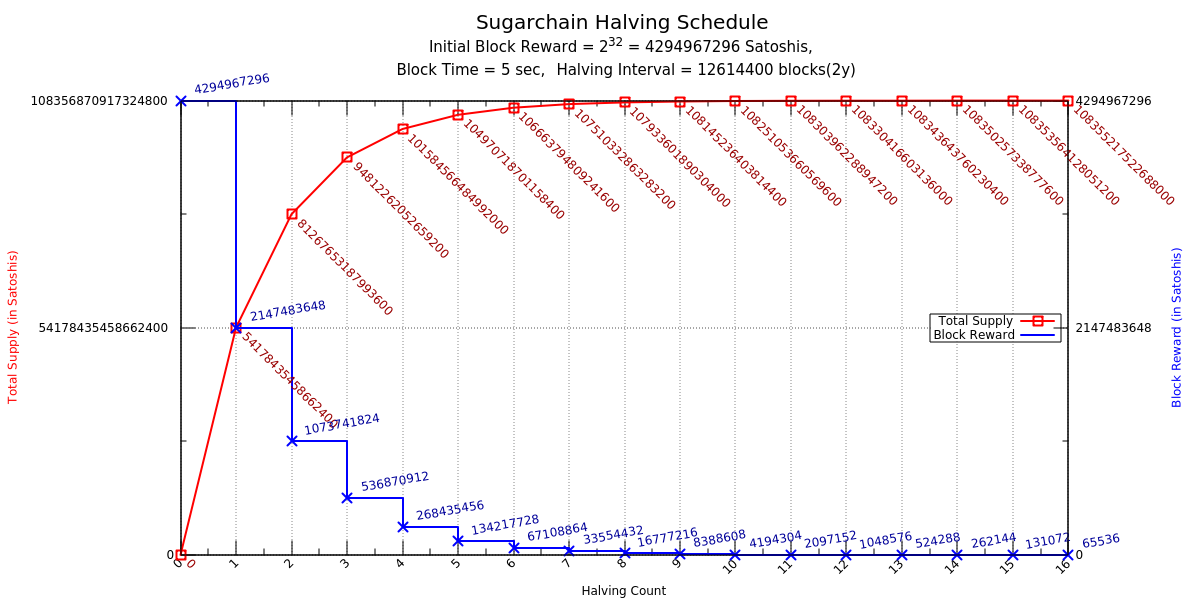
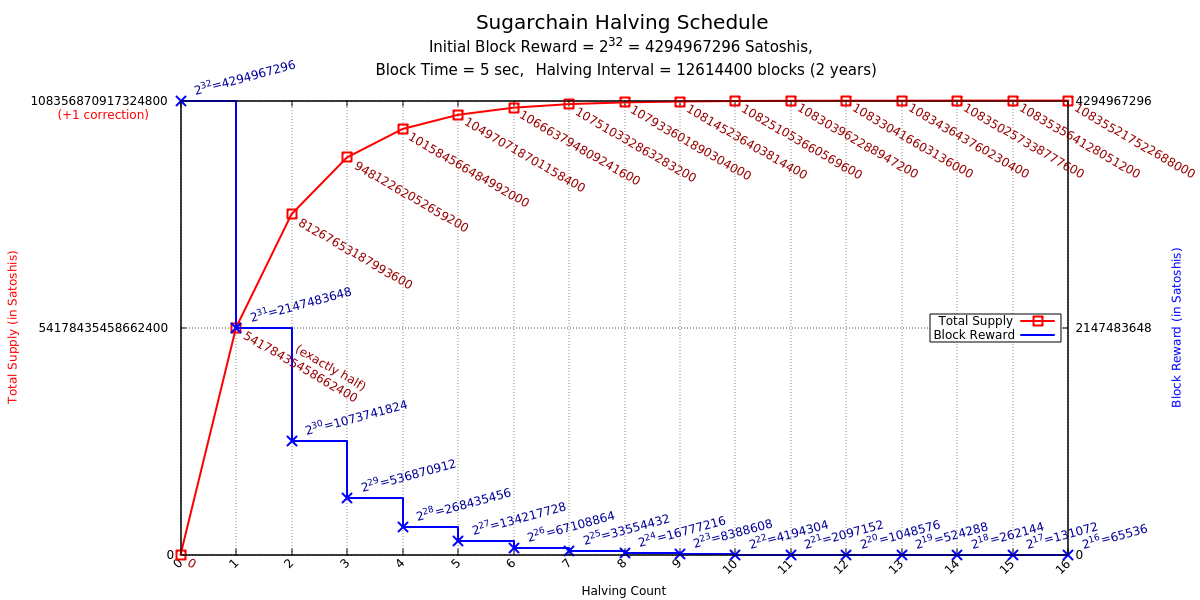
add: power of 2

diff --git a/max_money/max_money.py b/max_money/max_money.py
@@ -47,9 +47,10 @@ reward_interval = np.int64(210240 / 2 * 120) # 210240/2*120 = 12614400 is exactl
 blocktime = np.int64(5) # 5 seconds for sugarchain
 
 # print header
-print "Count\tSupply\t\t\tReward"
+print "Count\tSupply\t\t\tPow\tReward"
 print "%d\t" % halving_count,
 print "%d\t\t\t" % total, # current supply is 0
+print "2^{%.64g}\t" % np.log2(current_reward),
 print "%d" % current_reward
 
 # main loop
@@ -70,8 +71,9 @@ while current_reward > 0 and halving_count < 64: # TEST SUGAR "2^6=64"
     else:
         current_reward /= 2
 
-    # print - current reward
-    print "%.32g" % current_reward
+    # print - "2^n" and "current reward"
+    print "2^{%.64g}\t" % np.log2(current_reward),
+    print "%.64g\t" % current_reward
 
     # store first halving for later
     if halving_count == 1:
@@ -150,101 +152,3 @@ if total/2 != first_halving:
 else:
     print "  [ OK ]: first halving is half of the total supply"
 print ""
-
-# output example
-"""
-yumekawa-utils$ cd max_money && ./max_money.py && cat ./max_money.csv && gnuplot ./max_money.plot; cd ..
-
-  Block Time:		5 Seconds
-  Initial Block Reward:	4294967296 Satoshis
-  Initial Block Reward:	42.94967296 COINs
-  Halving Interval:	12614400 Blocks
-  * in Years:		  2 Years
-  * in Days:		  730 Days
-  * in Hours:		  17520 Hours
-  * in Minutes:		  1051200 Minutes
-  * in Seconds:		  63072000 Seconds
-  Total Halving Count:	64 Times
-  * in Years:		  128 Years
-  * in Days:		  46720 Days
-  * in Hours:		  1121280 Hours
-  * in Minutes:		  67276800 Minutes
-  * in Seconds:		  4036608000 Seconds
-  Total Satoshis:	108356870917324799 Satoshis
-  Total COINs:		1083568709.173248 COINs
-
-  [ OK ]: all range check is finished
-
-  # WARNING: the first halving is NOT half of the total supply!
-  Total Supply:		108356870917324799
-  Half of Total Supply:	54178435458662399
-  First Halving:	54178435458662400
-  Difference:		-1 Satoshis
-
-Count	Supply			Reward
-0	0			4294967296
-1	54178435458662400	2147483648
-2	81267653187993600	1073741824
-3	94812262052659200	536870912
-4	101584566484992000	268435456
-5	104970718701158400	134217728
-6	106663794809241600	67108864
-7	107510332863283200	33554432
-8	107933601890304000	16777216
-9	108145236403814400	8388608
-10	108251053660569600	4194304
-11	108303962288947200	2097152
-12	108330416603136000	1048576
-13	108343643760230400	524288
-14	108350257338777600	262144
-15	108353564128051200	131072
-16	108355217522688000	65536
-17	108356044220006400	32768
-18	108356457568665600	16384
-19	108356664242995200	8192
-20	108356767580160000	4096
-21	108356819248742400	2048
-22	108356845083033600	1024
-23	108356858000179200	512
-24	108356864458752000	256
-25	108356867688038400	128
-26	108356869302681600	64
-27	108356870110003200	32
-28	108356870513664000	16
-29	108356870715494400	8
-30	108356870816409600	4
-31	108356870866867200	2
-32	108356870892096000	1
-33	108356870904710400	0.5
-34	108356870911017600	0.25
-35	108356870914171200	0.125
-36	108356870915748000	0.0625
-37	108356870916536400	0.03125
-38	108356870916930600	0.015625
-39	108356870917127700	0.0078125
-40	108356870917226250	0.00390625
-41	108356870917275525	0.001953125
-42	108356870917300162	0.0009765625
-43	108356870917312481	0.00048828125
-44	108356870917318640	0.000244140625
-45	108356870917321720	0.0001220703125
-46	108356870917323260	6.103515625e-05
-47	108356870917324030	3.0517578125e-05
-48	108356870917324415	1.52587890625e-05
-49	108356870917324607	7.62939453125e-06
-50	108356870917324703	3.814697265625e-06
-51	108356870917324751	1.9073486328125e-06
-52	108356870917324775	9.5367431640625e-07
-53	108356870917324787	4.76837158203125e-07
-54	108356870917324793	2.384185791015625e-07
-55	108356870917324796	1.1920928955078125e-07
-56	108356870917324798	5.9604644775390625e-08
-57	108356870917324799	2.98023223876953125e-08
-58	108356870917324799	1.490116119384765625e-08
-59	108356870917324799	7.450580596923828125e-09
-60	108356870917324799	3.7252902984619140625e-09
-61	108356870917324799	1.86264514923095703125e-09
-62	108356870917324799	9.31322574615478515625e-10
-63	108356870917324799	4.656612873077392578125e-10
-64	108356870917324799	2.3283064365386962890625e-10
-"""

diff --git a/README.md b/README.md
@@ -60,72 +60,72 @@ Half of Total Supply:	54178435458662399
 First Halving:	54178435458662400
 Difference:		-1 Satoshis
 
-Count	Supply			Reward
-0	0			4294967296
-1	54178435458662400	2147483648
-2	81267653187993600	1073741824
-3	94812262052659200	536870912
-4	101584566484992000	268435456
-5	104970718701158400	134217728
-6	106663794809241600	67108864
-7	107510332863283200	33554432
-8	107933601890304000	16777216
-9	108145236403814400	8388608
-10	108251053660569600	4194304
-11	108303962288947200	2097152
-12	108330416603136000	1048576
-13	108343643760230400	524288
-14	108350257338777600	262144
-15	108353564128051200	131072
-16	108355217522688000	65536
-17	108356044220006400	32768
-18	108356457568665600	16384
-19	108356664242995200	8192
-20	108356767580160000	4096
-21	108356819248742400	2048
-22	108356845083033600	1024
-23	108356858000179200	512
-24	108356864458752000	256
-25	108356867688038400	128
-26	108356869302681600	64
-27	108356870110003200	32
-28	108356870513664000	16
-29	108356870715494400	8
-30	108356870816409600	4
-31	108356870866867200	2
-32	108356870892096000	1
-33	108356870904710400	0.5
-34	108356870911017600	0.25
-35	108356870914171200	0.125
-36	108356870915748000	0.0625
-37	108356870916536400	0.03125
-38	108356870916930600	0.015625
-39	108356870917127700	0.0078125
-40	108356870917226250	0.00390625
-41	108356870917275525	0.001953125
-42	108356870917300162	0.0009765625
-43	108356870917312481	0.00048828125
-44	108356870917318640	0.000244140625
-45	108356870917321720	0.0001220703125
-46	108356870917323260	6.103515625e-05
-47	108356870917324030	3.0517578125e-05
-48	108356870917324415	1.52587890625e-05
-49	108356870917324607	7.62939453125e-06
-50	108356870917324703	3.814697265625e-06
-51	108356870917324751	1.9073486328125e-06
-52	108356870917324775	9.5367431640625e-07
-53	108356870917324787	4.76837158203125e-07
-54	108356870917324793	2.384185791015625e-07
-55	108356870917324796	1.1920928955078125e-07
-56	108356870917324798	5.9604644775390625e-08
-57	108356870917324799	2.98023223876953125e-08
-58	108356870917324799	1.490116119384765625e-08
-59	108356870917324799	7.450580596923828125e-09
-60	108356870917324799	3.7252902984619140625e-09
-61	108356870917324799	1.86264514923095703125e-09
-62	108356870917324799	9.31322574615478515625e-10
-63	108356870917324799	4.656612873077392578125e-10
-64	108356870917324799	2.3283064365386962890625e-10
+Count	Supply			Pow	Reward
+0	0			2^{32}	4294967296
+1	54178435458662400	2^{31}	2147483648	
+2	81267653187993600	2^{30}	1073741824	
+3	94812262052659200	2^{29}	536870912	
+4	101584566484992000	2^{28}	268435456	
+5	104970718701158400	2^{27}	134217728	
+6	106663794809241600	2^{26}	67108864	
+7	107510332863283200	2^{25}	33554432	
+8	107933601890304000	2^{24}	16777216	
+9	108145236403814400	2^{23}	8388608	
+10	108251053660569600	2^{22}	4194304	
+11	108303962288947200	2^{21}	2097152	
+12	108330416603136000	2^{20}	1048576	
+13	108343643760230400	2^{19}	524288	
+14	108350257338777600	2^{18}	262144	
+15	108353564128051200	2^{17}	131072	
+16	108355217522688000	2^{16}	65536	
+17	108356044220006400	2^{15}	32768	
+18	108356457568665600	2^{14}	16384	
+19	108356664242995200	2^{13}	8192	
+20	108356767580160000	2^{12}	4096	
+21	108356819248742400	2^{11}	2048	
+22	108356845083033600	2^{10}	1024	
+23	108356858000179200	2^{9}	512	
+24	108356864458752000	2^{8}	256	
+25	108356867688038400	2^{7}	128	
+26	108356869302681600	2^{6}	64	
+27	108356870110003200	2^{5}	32	
+28	108356870513664000	2^{4}	16	
+29	108356870715494400	2^{3}	8	
+30	108356870816409600	2^{2}	4	
+31	108356870866867200	2^{1}	2	
+32	108356870892096000	2^{0}	1	
+33	108356870904710400	2^{-1}	0.5	
+34	108356870911017600	2^{-2}	0.25	
+35	108356870914171200	2^{-3}	0.125	
+36	108356870915748000	2^{-4}	0.0625	
+37	108356870916536400	2^{-5}	0.03125	
+38	108356870916930600	2^{-6}	0.015625	
+39	108356870917127700	2^{-7}	0.0078125	
+40	108356870917226250	2^{-8}	0.00390625	
+41	108356870917275525	2^{-9}	0.001953125	
+42	108356870917300162	2^{-10}	0.0009765625	
+43	108356870917312481	2^{-11}	0.00048828125	
+44	108356870917318640	2^{-12}	0.000244140625	
+45	108356870917321720	2^{-13}	0.0001220703125	
+46	108356870917323260	2^{-14}	6.103515625e-05	
+47	108356870917324030	2^{-15}	3.0517578125e-05	
+48	108356870917324415	2^{-16}	1.52587890625e-05	
+49	108356870917324607	2^{-17}	7.62939453125e-06	
+50	108356870917324703	2^{-18}	3.814697265625e-06	
+51	108356870917324751	2^{-19}	1.9073486328125e-06	
+52	108356870917324775	2^{-20}	9.5367431640625e-07	
+53	108356870917324787	2^{-21}	4.76837158203125e-07	
+54	108356870917324793	2^{-22}	2.384185791015625e-07	
+55	108356870917324796	2^{-23}	1.1920928955078125e-07	
+56	108356870917324798	2^{-24}	5.9604644775390625e-08	
+57	108356870917324799	2^{-25}	2.98023223876953125e-08	
+58	108356870917324799	2^{-26}	1.490116119384765625e-08	
+59	108356870917324799	2^{-27}	7.450580596923828125e-09	
+60	108356870917324799	2^{-28}	3.7252902984619140625e-09	
+61	108356870917324799	2^{-29}	1.86264514923095703125e-09	
+62	108356870917324799	2^{-30}	9.31322574615478515625e-10	
+63	108356870917324799	2^{-31}	4.656612873077392578125e-10	
+64	108356870917324799	2^{-32}	2.3283064365386962890625e-10
 ```
 
 ### max_moneyBTC (optional)
